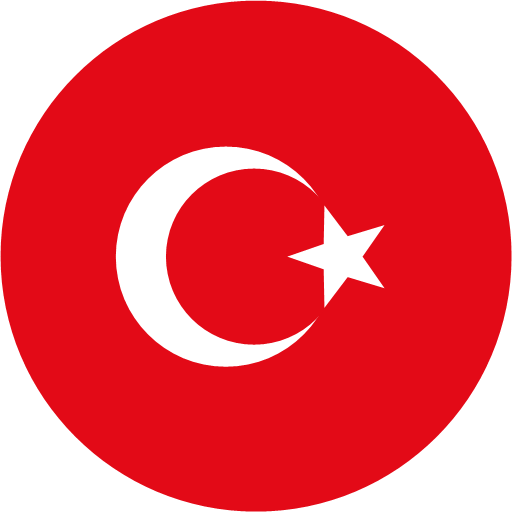
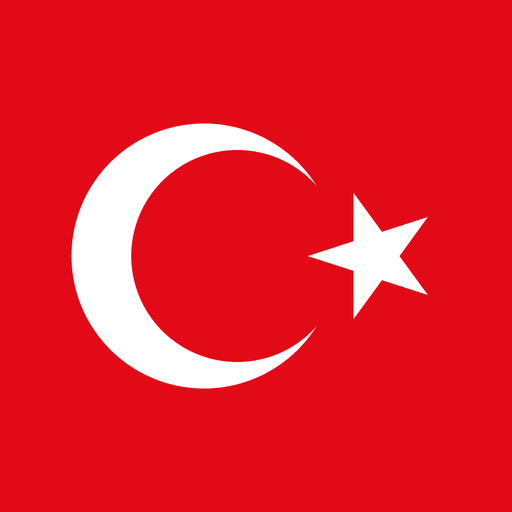
Simge kare: telefonda kesilmeden görünsün
Yuvarlak bayrak şeffaf köşeliydi ve maskable olarak tanıtıldığı için
telefonlar kenarından kırpıyordu. Kenara kadar kırmızı kare, ay-yıldız
güvenli alanın içinde; iPhone için ayrı apple-touch-icon.

diff --git a/index.html b/index.html
@@ -9,9 +9,9 @@
 <meta name="apple-mobile-web-app-status-bar-style" content="black-translucent">
 <meta name="apple-mobile-web-app-title" content="Coğrafyam">
 <link rel="manifest" href="manifest.json">
-<link rel="apple-touch-icon" href="icons/icon-192.png">
+<link rel="apple-touch-icon" href="icons/apple-touch-icon.png">
 <link rel="icon" href="icons/icon-192.png">
-<link rel="stylesheet" href="css/style.css?s=57">
+<link rel="stylesheet" href="css/style.css?s=58">
 </head>
 <body>
 
@@ -363,17 +363,17 @@
 
 <div class="bildirim" id="bildirim"></div>
 
-<script src="js/harita-turkiye.js?s=57"></script>
-<script src="js/il-merkez.js?s=57"></script>
-<script src="js/komsular.js?s=57"></script>
-<script src="js/hazir-icerik.js?s=57"></script>
+<script src="js/harita-turkiye.js?s=58"></script>
+<script src="js/il-merkez.js?s=58"></script>
+<script src="js/komsular.js?s=58"></script>
+<script src="js/hazir-icerik.js?s=58"></script>
 <script src="js/vendor/firebase-app-compat.js"></script>
 <script src="js/vendor/firebase-firestore-compat.js"></script>
-<script src="js/firebase-config.js?s=57"></script>
-<script src="js/data.js?s=57"></script>
-<script src="js/app.js?s=57"></script>
-<script src="js/bulut.js?s=57"></script>
-<script src="js/editor.js?s=57"></script>
-<script src="js/konu-duzen.js?s=57"></script>
+<script src="js/firebase-config.js?s=58"></script>
+<script src="js/data.js?s=58"></script>
+<script src="js/app.js?s=58"></script>
+<script src="js/bulut.js?s=58"></script>
+<script src="js/editor.js?s=58"></script>
+<script src="js/konu-duzen.js?s=58"></script>
 </body>
 </html>

diff --git a/sw.js b/sw.js
@@ -2,27 +2,28 @@
    Strateji: ÖNCE AĞ, olmazsa önbellek.
    Böylece dosyaları her güncellediğimizde tarayıcı en yeni sürümü alır;
    internet yoksa son indirilen sürümle çalışmaya devam eder. */
-const SURUM = "cografyam-v58";
+const SURUM = "cografyam-v59";
 
 const DOSYALAR = [
   "./",
   "./index.html",
-  "./css/style.css?s=57",
-  "./js/harita-turkiye.js?s=57",
-  "./js/il-merkez.js?s=57",
-  "./js/komsular.js?s=57",
-  "./js/hazir-icerik.js?s=57",
+  "./css/style.css?s=58",
+  "./js/harita-turkiye.js?s=58",
+  "./js/il-merkez.js?s=58",
+  "./js/komsular.js?s=58",
+  "./js/hazir-icerik.js?s=58",
   "./js/vendor/firebase-app-compat.js",
   "./js/vendor/firebase-firestore-compat.js",
-  "./js/firebase-config.js?s=57",
-  "./js/data.js?s=57",
-  "./js/app.js?s=57",
-  "./js/bulut.js?s=57",
-  "./js/editor.js?s=57",
-  "./js/konu-duzen.js?s=57",
+  "./js/firebase-config.js?s=58",
+  "./js/data.js?s=58",
+  "./js/app.js?s=58",
+  "./js/bulut.js?s=58",
+  "./js/editor.js?s=58",
+  "./js/konu-duzen.js?s=58",
   "./manifest.json",
   "./icons/icon-192.png",
-  "./icons/icon-512.png"
+  "./icons/icon-512.png",
+  "./icons/apple-touch-icon.png"
 ];
 
 self.addEventListener("install", ev => {
